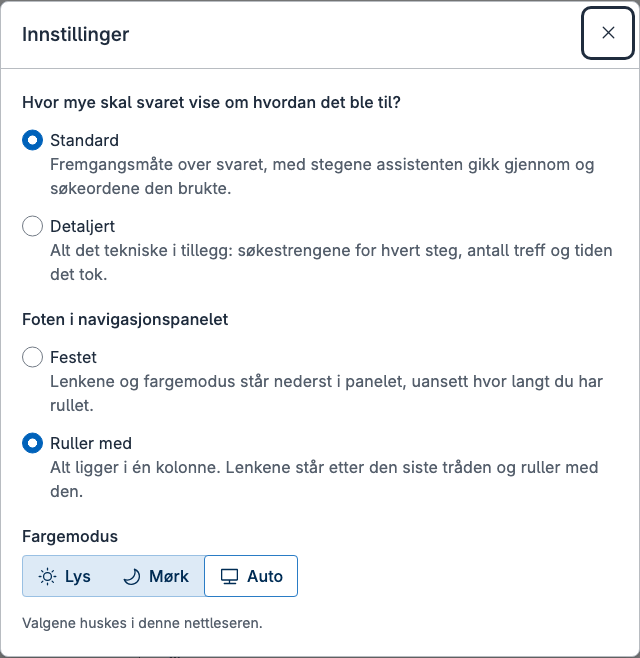
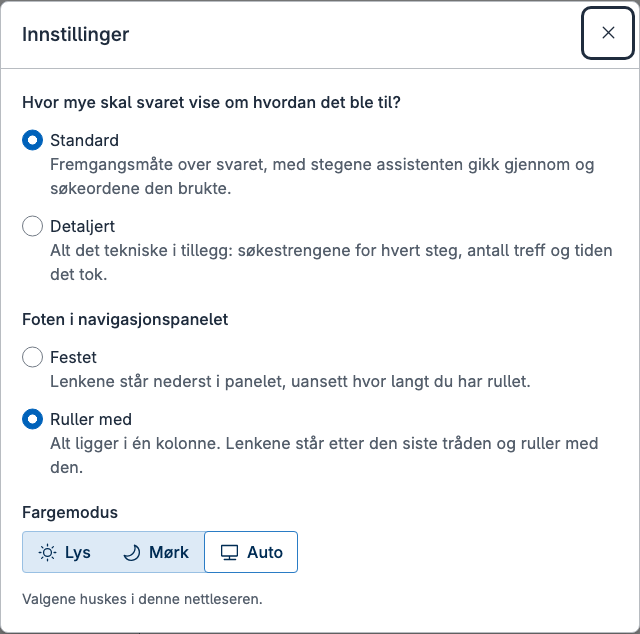
Rapporten 7. oktober etter gjennomgangen: målt der det står målt
- Orddelingen er målt i WebKit. Chromium uten ordlister deler ikke norsk.
- Nytt bilde av innstillingene fra #273 slik den er nå.
- Rapporten står i README.
- Filnavnet med personnavn står også i dokumentasjonen for å kjøre live
  lokalt, som går ut med live-modus.
- Årsfilteret feiler bare med ett siffer.
- Tab-rekkefølgen med raden øverst er et valg, ikke en feil. Pakken mangler
  tre typer. #271 er beskrevet riktig. Flere lenker.

Changed region(s): [[0.0, 0.0, 1.0, 0.4495], [0.0312, 0.4795, 0.9375, 0.959]]

diff --git a/docs/rapporter/2026-10-07-avgjoerelser-foer-sammenslaaing.html b/docs/rapporter/2026-10-07-avgjoerelser-foer-sammenslaaing.html
@@ -543,9 +543,11 @@
             <strong>Anbefaling: gjør raden til standard under 774 px.</strong>
             <span
               >Det fjerner de fleste ordene som brytes midt i (avgjørelse 4), «agent…» i
-              skrivefeltet, og det meste av høyden avgjørelse 3 koster på telefon. Det som gjenstår
-              med flagget: Tab går fra knappen øverst til venstre gjennom hele svaret før den når
-              knappen øverst til høyre. Det bør rettes før raden blir standard.</span
+              skrivefeltet, og det meste av høyden avgjørelse 3 koster på telefon. Med flagget går
+              Tab fra knappen øverst til venstre gjennom hele svaret før den når knappen øverst til
+              høyre. #276 valgte det med vilje, fordi kildene kommer etter svaret i lesefølgen, og
+              det bryter ikke WCAG 2.4.3. Valget står mellom den rekkefølgen og at begge knappene
+              kommer først.</span
             >
           </div>
         </div>
@@ -557,11 +559,15 @@
             <span class="pill partly">PR #273, godkjent i gjennomgangen</span>
           </div>
           <p>
-            Velgeren for lys, mørk og auto flyttes fra foten i navigasjonspanelet inn i
+            I
+            <a href="https://github.com/larsekhansen/kunnskapsassistenten-frontend/pull/273"
+              >#273</a
+            >
+            flyttes velgeren for lys, mørk og auto fra foten i navigasjonspanelet inn i
             innstillingene, og foten får lenken «Innstillinger» der velgeren sto. Foten blir 18 px
-            lavere (163 til 145 px på 1440 og 390), og de pikslene går til trådlista. Menyen
-            monteres i skallet, så den virker på alle sider. Det gjør også visningsnivået og valget
-            for foten synlige for alle. ADR 0004 sa at menyen skulle være skjult.
+            lavere (163 til 145 px på 1440 og 390). Menyen monteres i skallet, så den virker på alle
+            sider. Det gjør også visningsnivået og valget for foten synlige for alle. ADR 0004 sa at
+            menyen skulle være skjult.
           </p>
           <div class="pair">
             <figure class="shot">
@@ -592,7 +598,7 @@
                   src="bilder/2026-10-07-settings-after-1440.png"
                   alt="Innstillingene med fargevalget som egen gruppe."
                   width="640"
-                  height="658"
+                  height="634"
                   loading="lazy"
               /></a>
               <figcaption>
@@ -622,13 +628,21 @@
           </p>
           <ul>
             <li>
-              <strong>#277, navnet:</strong> knappen heter «Kopier lenke til tråden (virker bare for
-              deg)».
+              <strong
+                ><a href="https://github.com/larsekhansen/kunnskapsassistenten-frontend/pull/277"
+                  >#277</a
+                >, navnet:</strong
+              >
+              knappen heter «Kopier lenke til tråden (virker bare for deg)».
             </li>
             <li>
-              <strong>#278, beskrivelsen:</strong> knappen heter som før. «Virker bare for deg, i
-              denne nettleseren» står som hjelpetekst på knappen og først i kvitteringen etter
-              kopieringen.
+              <strong
+                ><a href="https://github.com/larsekhansen/kunnskapsassistenten-frontend/pull/278"
+                  >#278</a
+                >, beskrivelsen:</strong
+              >
+              knappen heter som før. «Virker bare for deg, i denne nettleseren» står som hjelpetekst
+              på knappen og i kvitteringen etter kopieringen.
             </li>
           </ul>
           <div class="table-wrap" tabindex="0" role="group" aria-label="Tabell: høyden på knappen">
@@ -737,7 +751,10 @@
             >), brytes et ord som ikke får plass, midt i og uten bindestrek. Bildet uten raden
             øverst i avgjørelse 1 viser det: «måloppnåels» og «e». Med automatisk orddeling (<code
               >hyphens: auto</code
-            >) blir det «måloppnåel-» og «se».
+            >) deler nettleseren ordet med bindestrek der den har ordlister for norsk. Målt i WebKit
+            (Safari) blir tittelen «NKOM mål-» og «oppnåelse» på 393, to linjer i stedet for tre.
+            Chromium uten ordlister deler ikke norsk, så e2e-testene (Chromium) kan ikke se om
+            orddelingen virker.
           </p>
           <div class="rec">
             <strong
@@ -803,7 +820,7 @@
             navigasjonspanelet bare trådene, og høyre panel har filtrene over kildene. Uten et valgt
             filter er filteret ikke låst etter svaret, så alle kontrollene står der, og kildene
             havner under kanten på 1440. Med et valgt filter står det kort «Avgrenset til …», og
-            kildene står rett under.
+            dokumentene står rett under. Utdragene står under kanten også da.
           </p>
           <div class="pair">
             <figure class="shot">
@@ -850,8 +867,9 @@
               og utkvittert. Kan lukkes.
             </li>
             <li>
-              Årsfilteret med perioder (flagg <code>year-ranges</code>): med ett tall skrevet kommer
-              bare feilteksten, og forslagene kan ikke klikkes. Rettingen er under arbeid.
+              Årsfilteret med perioder (flagg <code>year-ranges</code>): med bare ett siffer skrevet
+              («2») står bare feilteksten i lista, og et klikk på den tømmer feltet. «20», «2024» og
+              «2019-20» gir forslag som kan velges. Rettingen er under arbeid.
             </li>
           </ul>
         </div>
@@ -891,8 +909,9 @@
                 </td>
                 <td>
                   Legg <code>sources</code> til <code>ConversationDetail</code> i pakken, la
-                  klienten importere fra pakken, og slett kopien. Typene pakken ikke har (lista over
-                  agenter og identiteten fra <code>/api/me</code>), legges til i pakken.
+                  klienten importere fra pakken, og slett kopien. De tre typene pakken ikke har
+                  (svaret fra <code>/api/models</code>, svaret fra <code>/api/me</code> og lista
+                  over tråder), legges til i pakken.
                 </td>
                 <td class="size">L</td>
               </tr>
@@ -910,7 +929,9 @@
                 </td>
                 <td>
                   Fjern dem i én commit, med testene som hører til. Klienten har da to moduser: mock
-                  og bff. Dokumentasjonen for testmiljøet forsvinner også, og med den et filnavn med
+                  og bff. Dokumentasjonen for testmiljøet og for å kjøre live lokalt
+                  (<code>deploy.md</code>, <code>deploy-backend.md</code> og
+                  <code>kjoremiljo-og-korpus.md</code>) forsvinner også, og med den et filnavn med
                   personnavn som står der i dag.
                 </td>
                 <td class="size">M</td>
@@ -931,9 +952,9 @@
                 <td class="num">4</td>
                 <td class="feature"><strong>Git-krokene og npm 11</strong></td>
                 <td>
-                  <code>prepare</code> i <code>apps/web</code> legger git-kroker for hele monorepoet
-                  ved <code>npm ci</code>. npm 11 blokkerer installasjonsskript
-                  (<code>allowScripts</code>) for simple-git-hooks og fsevents.
+                  <code>prepare</code> i <code>src/apps/web</code> legger git-kroker for hele
+                  monorepoet ved <code>npm ci</code>. npm 11.19 i CI melder at installasjonsskriptet
+                  til simple-git-hooks ikke er dekket av <code>allowScripts</code>.
                 </td>
                 <td>
                   Avklares med de som eier monorepoet: krokene i rota for hele repoet, eller ingen
@@ -951,14 +972,18 @@
                 <td>
                   Den sammenslåtte appen (BFF-en og klienten) rulles ut slik qa gjør, med innlogging
                   i BFF-en. Da er avgjørelse 5 løst. Dette repoet får en peker til monorepoet og
-                  arkiveres, og digdir#124 lukkes.
+                  arkiveres, og
+                  <a href="https://github.com/digdir/kunnskapsassistenten/issues/124">digdir#124</a>
+                  lukkes.
                 </td>
                 <td class="size">M</td>
               </tr>
               <tr>
                 <td class="num">6</td>
                 <td class="feature"><strong>Et personnavn i ADR 0001 i monorepoet</strong></td>
-                <td>ADR-en er monorepoets egen og nevner en person i et eksempel.</td>
+                <td>
+                  ADR-en er monorepoets egen og nevner en person ved navn som kilde til et sitat.
+                </td>
                 <td>Foreslå en nøytral formulering til de som eier den, eller la den stå.</td>
                 <td class="size">L</td>
               </tr>
@@ -981,13 +1006,24 @@
             er usikkert om kolonnene fungerer godt mellom telefon og desktop.
           </li>
           <li>
-            <strong>Forsøkene bak flagg</strong> avgjøres, og flaggene tas bort: raden øverst
-            (digdir#120), årsfilter med perioder og samlede merkelapper (digdir#115 og #116), og
-            filtrene i høyre panel (digdir#84).
+            <strong>Forsøkene bak flagg</strong> avgjøres, og flaggene tas bort: raden øverst (<a
+              href="https://github.com/digdir/kunnskapsassistenten/issues/120"
+              >digdir#120</a
+            >), årsfilter med perioder og samlede merkelapper (<a
+              href="https://github.com/digdir/kunnskapsassistenten/issues/115"
+              >digdir#115</a
+            >
+            og <a href="https://github.com/digdir/kunnskapsassistenten/issues/116">#116</a>), og
+            filtrene i høyre panel (<a
+              href="https://github.com/digdir/kunnskapsassistenten/issues/84"
+              >digdir#84</a
+            >).
           </li>
           <li>
             <strong>Kildene per svar etter ny innlasting</strong> venter på at backenden lagrer
-            bitene (headless-rag #21).
+            bitene (<a href="https://github.com/digdir/digdir-headless-rag/issues/21"
+              >headless-rag #21</a
+            >).
           </li>
           <li>
             <strong>Innstillingsdialogen</strong> flyttes fra mappa til chatvisningen til skallet,
@@ -1016,75 +1052,147 @@
             </thead>
             <tbody>
               <tr>
-                <td class="num">257</td>
+                <td class="num">
+                  <a href="https://github.com/larsekhansen/kunnskapsassistenten-frontend/pull/257"
+                    >257</a
+                  >
+                </td>
                 <td>Et svar uten kilder får én kort linje med et info-ikon</td>
               </tr>
               <tr>
-                <td class="num">265</td>
+                <td class="num">
+                  <a href="https://github.com/larsekhansen/kunnskapsassistenten-frontend/pull/265"
+                    >265</a
+                  >
+                </td>
                 <td>Valg av agent i skrivefeltet</td>
               </tr>
               <tr>
-                <td class="num">267</td>
+                <td class="num">
+                  <a href="https://github.com/larsekhansen/kunnskapsassistenten-frontend/pull/267"
+                    >267</a
+                  >
+                </td>
                 <td>Foten i navigasjonspanelet ruller med som standard</td>
               </tr>
               <tr>
-                <td class="num">268</td>
+                <td class="num">
+                  <a href="https://github.com/larsekhansen/kunnskapsassistenten-frontend/pull/268"
+                    >268</a
+                  >
+                </td>
                 <td>Ingen personnavn i kode, dokumentasjon og tester</td>
               </tr>
               <tr>
-                <td class="num">269</td>
+                <td class="num">
+                  <a href="https://github.com/larsekhansen/kunnskapsassistenten-frontend/pull/269"
+                    >269</a
+                  >
+                </td>
                 <td>Funksjonsflagg i en skjult meny, <code>#feature-flags</code></td>
               </tr>
               <tr>
-                <td class="num">270</td>
+                <td class="num">
+                  <a href="https://github.com/larsekhansen/kunnskapsassistenten-frontend/pull/270"
+                    >270</a
+                  >
+                </td>
                 <td>Ingenting ruller sidelengs på telefon, med UI-tester på tolv bruddpunkter</td>
               </tr>
               <tr>
-                <td class="num">271</td>
-                <td>Samtalen følger med ned bare når leseren er nederst</td>
+                <td class="num">
+                  <a href="https://github.com/larsekhansen/kunnskapsassistenten-frontend/pull/271"
+                    >271</a
+                  >
+                </td>
+                <td>Samtalen følger med ned også fra nesten nederst, og når leseren sender</td>
               </tr>
               <tr>
-                <td class="num">272</td>
+                <td class="num">
+                  <a href="https://github.com/larsekhansen/kunnskapsassistenten-frontend/pull/272"
+                    >272</a
+                  >
+                </td>
                 <td>Årsfilter med perioder og samlede merkelapper, bak flagg</td>
               </tr>
               <tr>
-                <td class="num">274</td>
+                <td class="num">
+                  <a href="https://github.com/larsekhansen/kunnskapsassistenten-frontend/pull/274"
+                    >274</a
+                  >
+                </td>
                 <td>Filtrene over kildene i høyre panel, bak flagg</td>
               </tr>
               <tr>
-                <td class="num">275</td>
+                <td class="num">
+                  <a href="https://github.com/larsekhansen/kunnskapsassistenten-frontend/pull/275"
+                    >275</a
+                  >
+                </td>
                 <td>«Velg alle» gjelder lista som vises, og legger til</td>
               </tr>
               <tr>
-                <td class="num">276</td>
+                <td class="num">
+                  <a href="https://github.com/larsekhansen/kunnskapsassistenten-frontend/pull/276"
+                    >276</a
+                  >
+                </td>
                 <td>Raden øverst på telefon, bak flagg</td>
               </tr>
               <tr>
-                <td class="num">279</td>
+                <td class="num">
+                  <a href="https://github.com/larsekhansen/kunnskapsassistenten-frontend/pull/279"
+                    >279</a
+                  >
+                </td>
                 <td>Rapporten og beslutningsloggen</td>
               </tr>
               <tr>
-                <td class="num">280</td>
+                <td class="num">
+                  <a href="https://github.com/larsekhansen/kunnskapsassistenten-frontend/pull/280"
+                    >280</a
+                  >
+                </td>
                 <td>Testene for rulling dekker filtrene i høyre panel</td>
               </tr>
               <tr>
-                <td class="num">281</td>
+                <td class="num">
+                  <a href="https://github.com/larsekhansen/kunnskapsassistenten-frontend/pull/281"
+                    >281</a
+                  >
+                </td>
                 <td>Testene for rulling kjører korte animasjoner ferdig og melder lange</td>
               </tr>
               <tr>
-                <td class="num">282</td>
+                <td class="num">
+                  <a href="https://github.com/larsekhansen/kunnskapsassistenten-frontend/pull/282"
+                    >282</a
+                  >
+                </td>
                 <td>En ustabil test venter til filterpanelet er ferdig</td>
               </tr>
               <tr>
-                <td class="num">283</td>
+                <td class="num">
+                  <a href="https://github.com/larsekhansen/kunnskapsassistenten-frontend/pull/283"
+                    >283</a
+                  >
+                </td>
                 <td>Kortere e2e: et kort mocksvar, og enhetstestene i en egen jobb</td>
               </tr>
               <tr>
-                <td class="num">284</td>
+                <td class="num">
+                  <a href="https://github.com/larsekhansen/kunnskapsassistenten-frontend/pull/284"
+                    >284</a
+                  >
+                </td>
                 <td>Flaggene testes bare på bredder der de virker</td>
               </tr>
               <tr>
-                <td class="num">285</td>
+                <td class="num">
+                  <a href="https://github.com/larsekhansen/kunnskapsassistenten-frontend/pull/285"
+                    >285</a
+                  >
+                </td>
                 <td>Filterpanelet hopper ikke lenger når feltene lastes</td>
               </tr>
             </tbody>
@@ -1099,7 +1207,8 @@
       <footer>
         <span
           >Laget 7. oktober 2026 fra koden på <code>main</code> 879f0de her, og utkast-PR #129
-          (0e28261). Høyder og bredder er målt i mock i Chromium. Alt annet er lest i koden.</span
+          (0e28261). Høyder og bredder er målt i mock i Chromium, og orddelingen i WebKit. Alt annet
+          er lest i koden.</span
         >
         <span>Beslutningene bak står i <a href="beslutningslogg.md">beslutningsloggen</a>.</span>
       </footer>

diff --git a/docs/rapporter/README.md b/docs/rapporter/README.md
@@ -14,9 +14,10 @@ Loggen peker dit i stedet for å gjenta dem.
 
 ## Rapportene
 
-| dato       | rapport                                                                             |
-| ---------- | ----------------------------------------------------------------------------------- |
-| 2026-10-06 | [Det som gjenstår før sammenslåingen](2026-10-06-gjenstaar-foer-sammenslaaing.html) |
+| dato       | rapport                                                                                               |
+| ---------- | ----------------------------------------------------------------------------------------------------- |
+| 2026-10-06 | [Det som gjenstår før sammenslåingen](2026-10-06-gjenstaar-foer-sammenslaaing.html)                   |
+| 2026-10-07 | [Avgjørelser og det som gjenstår før sammenslåingen](2026-10-07-avgjoerelser-foer-sammenslaaing.html) |
 
 ## Slik føres loggen
 
